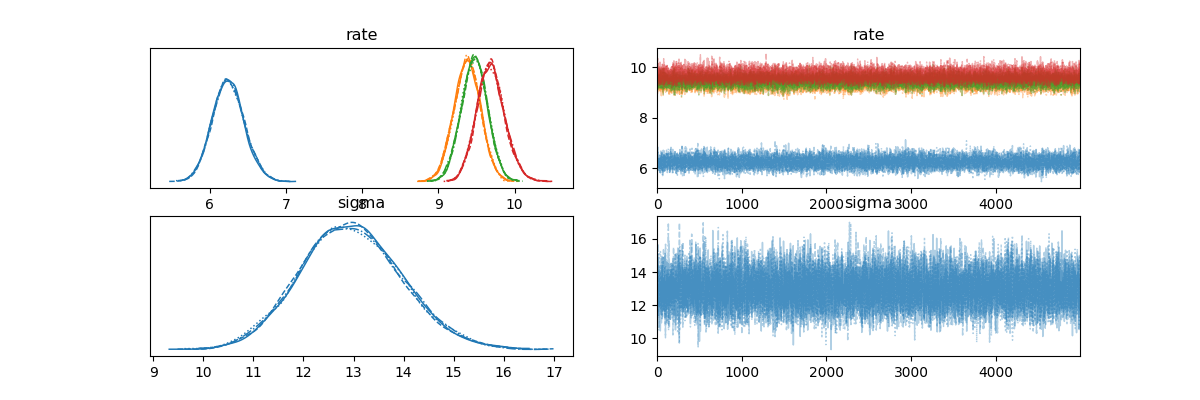
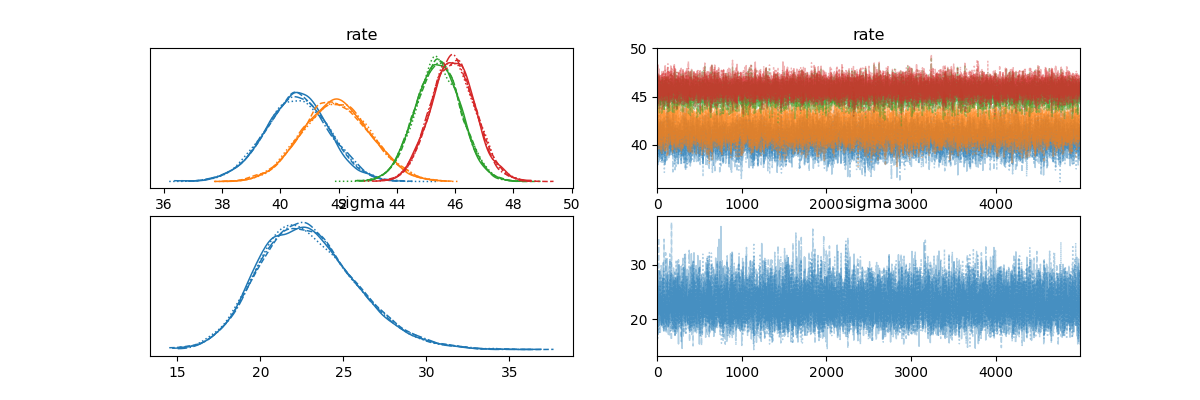
stimating switchpoints

diff --git a/plots.py b/plots.py
@@ -38,7 +38,7 @@ def plot_daily_pH_training(data, start_date, end_date,region = None, edad = None
 
 
 
-def plot_daily_switchpoints(data, start_date, end_date, trace, n_switchpoints,region = None, edad = None):
+def plot_daily_switchpoints(data, start_date, end_date, trace, n_switchpoints,region = None, edad = None, estimate_sw = False):
     print('\n Im plotting switchpoints')
     posterior_quantile = np.percentile(data['admissions'], [2.5, 25, 50, 75, 97.5], axis=1)
     wave_labels = ['Before 2º wave', '2º wave', '3º wave', '4º wave']
@@ -64,27 +64,39 @@ def plot_daily_switchpoints(data, start_date, end_date, trace, n_switchpoints,re
         alpha=0.6, markersize=4, label='Observed admissions')
 
     # Switchpoints with CI
-    switchpoints = np.array([164, 257, 354])  # Fixed switchpoints
+    if not estimate_sw:
+        switchpoints = np.array([164, 257, 354])  # Fixed switchpoints
 
-    for idx in range(n_switchpoints):
-        x_position = dates[int(switchpoints[idx])]
-        plt.vlines(x_position, data['hospitalized'].min(), posterior_quantile[4, :].max(), color='#42E2B8')
-         # Determine the position to place the wave label
-        if idx == 0:
-            # For the first segment (before the first switchpoint)
-            text_x_position = (0 + switchpoints[idx]) / 2
-        else:
-        # For subsequent segments
-            text_x_position = (int(switchpoints[idx-1]) + switchpoints[idx]) / 2
+        for idx in range(n_switchpoints):
+            x_position = dates[int(switchpoints[idx])]
+            plt.vlines(x_position, data['hospitalized'].min(), posterior_quantile[4, :].max(), color='#42E2B8')
+            # Determine the position to place the wave label
+            if idx == 0:
+                # For the first segment (before the first switchpoint)
+                text_x_position = (0 + switchpoints[idx]) / 2
+            else:
+            # For subsequent segments
+                text_x_position = (int(switchpoints[idx-1]) + switchpoints[idx]) / 2
 
-        plt.text(text_x_position, posterior_quantile[4, :].max(), wave_labels[idx], 
-             horizontalalignment='center', verticalalignment='bottom', fontsize=12, color='black',fontweight = 'bold')
+            plt.text(text_x_position, posterior_quantile[4, :].max(), wave_labels[idx], 
+                horizontalalignment='center', verticalalignment='bottom', fontsize=12, color='black',fontweight = 'bold')
+    else:
+        print('Im stimating switchpoints')
+        # Switchpoints with CI
+        for idx in range(n_switchpoints):
+            values = trace.posterior.quantile((.025, .5, .975), dim=('chain', 'draw'))
+            point = values['switchpoint'].values[:, idx]
+            plt.vlines(dates[int(point[1])],
+                    data['hospitalized'].min(), data['hospitalized'].max(), color='C1')
+
+            plt.fill_betweenx(
+                y=[data['hospitalized'].min(), data['hospitalized'].max()],
+                x1=dates[int(point[0])],
+                x2=dates[int(point[2])],
+                alpha=0.5,
+                color="C1",
+            )
         
-    text_x_position = (int(switchpoints[len(switchpoints)-1]) + len(dates)) / 2
-
-    plt.text(text_x_position, posterior_quantile[4, :].max(), wave_labels[len(switchpoints)], 
-             horizontalalignment='center', verticalalignment='bottom', fontsize=12, color='black',fontweight = 'bold')
-
         
     plt.xticks(plot_dates, rotation = 45)
     plt.ylabel('Daily number of admissions', fontsize='large',fontweight = 'bold')
@@ -103,12 +115,20 @@ def plot_daily_switchpoints(data, start_date, end_date, trace, n_switchpoints,re
         label.set_fontweight('bold')
     for label in plt.gca().get_yticklabels():
         label.set_fontweight('bold')
-    if not edad:
-        plt.savefig(f'plots/fit_{region}_fixed_switchpoints.png')
-        plt.savefig(f'plots/fit_{region}_fixed_switchpoints.pdf')
+    if not estimate_sw:
+        if not edad:
+            plt.savefig(f'plots/fit_{region}_fixed_switchpoints.png')
+            plt.savefig(f'plots/fit_{region}_fixed_switchpoints.pdf')
+        else:
+            plt.savefig(f'plots/fit_{region}_fixed_switchpoints_{edad}.png')
+            plt.savefig(f'plots/fit_{region}_fixed_switchpoints_{edad}.pdf')
     else:
-        plt.savefig(f'plots/fit_{region}_fixed_switchpoints_{edad}.png')
-        plt.savefig(f'plots/fit_{region}_fixed_switchpoints_{edad}.pdf')
+        if not edad:
+            plt.savefig(f'plots/fit_{region}_non_fixed_switchpoints.png')
+            plt.savefig(f'plots/fit_{region}_non_fixed_switchpoints.pdf')
+        else:
+            plt.savefig(f'plots/fit_{region}_non_fixed_switchpoints{edad}.png')
+            plt.savefig(f'plots/fit_{region}_non_fixed_switchpoints{edad}.pdf')
 
 
 

diff --git a/train.py b/train.py
@@ -48,18 +48,26 @@ def train_daily_model(region, start_date='2020-06-29', end_date='2020-12-01',
 
 def estimate_daily_switchpoints(region, admissions_lambda, start_date='2020-07-01',
                                 end_date='2021-09-15', burn=4000, draws=5000, n_chains=4,
-                                verbose=False, n_switchpoints=1):
+                                verbose=False, n_switchpoints=1, estimate_sw = False):
     if region == 'Italy':
         start_date = '2020-09-01'
     print('HE ENTRADO AL PROGRAMA')
     cases, hospitalized = load_data(region, start_date, end_date)
     print('\n HE CARGADO LOS DATOS')
-    dict_init_values = {
-        'rate' : np.array(np.linspace(3, 10, n_switchpoints + 1)),
-        'sigma' : None,
-        'admissions' : None
-    }
-    with daily_switchpoints_model(cases, hospitalized, admissions_lambda, n_switchpoints) as model:
+    if not estimate_sw:
+        dict_init_values = {
+            'rate' : np.array(np.linspace(3, 10, n_switchpoints + 1)),
+            'sigma' : None,
+            'admissions' : None
+        }
+    else:
+        dict_init_values = {
+            'switchpoint' : np.array(np.linspace(100, 400, n_switchpoints)),
+            'rate' : np.array(np.linspace(3, 10, n_switchpoints + 1)),
+            'sigma' : None,
+            'admissions' : None
+        }
+    with daily_switchpoints_model(cases, hospitalized, admissions_lambda, n_switchpoints, estimate_sw= estimate_sw) as model:
         
         idata = pm.sample(draws=draws, tune=burn, chains=n_chains,
                           return_inferencedata=True, target_accept=0.99, idata_kwargs={"log_likelihood": True},initvals=dict_init_values)
@@ -75,7 +83,7 @@ def estimate_daily_switchpoints(region, admissions_lambda, start_date='2020-07-0
                 'hospitalized': idata.observed_data['admissions'].to_numpy()
             }
 
-            plot_daily_switchpoints(data, start_date, end_date, idata, n_switchpoints, region)
+            plot_daily_switchpoints(data, start_date, end_date, idata, n_switchpoints, region, estimate_sw)
 
     with open(f'results/fixed_switchpoints_daily_{n_switchpoints}_{region}.pickle', 'wb') as file:
         pickle.dump(idata, file, protocol=pickle.HIGHEST_PROTOCOL)

diff --git a/model_daily.py b/model_daily.py
@@ -42,7 +42,7 @@ def cdf_exponential(x, lam):
     return cdf[1:] - cdf[:-1]
 
 
-def daily_switchpoints_model(cases, observed_admissions, admissions_lambda, n_switchpoints):
+def daily_switchpoints_model(cases, observed_admissions, admissions_lambda, n_switchpoints, estimate_sw = False):
 
     delay_matrix_0 = make_delay_matrix(len(cases), len(cases), 0)
 
@@ -56,9 +56,13 @@ def daily_switchpoints_model(cases, observed_admissions, admissions_lambda, n_sw
             return value/100
 
         points = np.arange(0, len(cases))
-        switchpoints = np.array([164, 257, 354])  # Fixed switchpoints
-
-        n_switchpoints = len(switchpoints)
+        if not estimate_sw:
+            switchpoints = np.array([164, 257, 354])  # Fixed switchpoints
+            n_switchpoints = len(switchpoints)
+        else:
+            switchpoints = pm.Uniform('switchpoint', lower=30, upper=len(points), shape=(n_switchpoints,),
+                                  transform=pm.distributions.transforms.Ordered())
+            
         rates = pm.Gamma('rate', alpha=7.5, beta=1.0, shape=(n_switchpoints+1,),
                           transform=pm.distributions.transforms.Ordered())
         #pm.Uniform('rate', lower=0, upper=1, shape=(n_switchpoints+1,))

diff --git a/main.py b/main.py
@@ -18,7 +18,7 @@ if __name__ == "__main__":
             pH, admissions_lambda = train_daily_model(args.region, verbose=True)
             print(f' pH es {pH}, admissions_lambda es {admissions_lambda}\n')
             estimate_daily_switchpoints(region=args.region, admissions_lambda=admissions_lambda,
-                                        n_switchpoints=args.n_switchpoints,verbose=True)
+                                        n_switchpoints=args.n_switchpoints,verbose=True,estimate_sw=args.switchpoints)
     else:
         # Deaths
         pD, deaths_lambda = train_deaths_model(args.region)

diff --git a/parser.py b/parser.py
@@ -43,6 +43,13 @@ def parse_args(args=sys.argv[1:]):
         default=False,
         help="Flag to indicate if you want to predict by age groups"
     )
+    parser.add_argument(
+        "-sw",
+        "--switchpoints",
+        action=argparse.BooleanOptionalAction,
+        default=False,
+        help="Flag to indicate if you want to predict switchpoints"
+    )
     
 
     return parser.parse_args(args)
